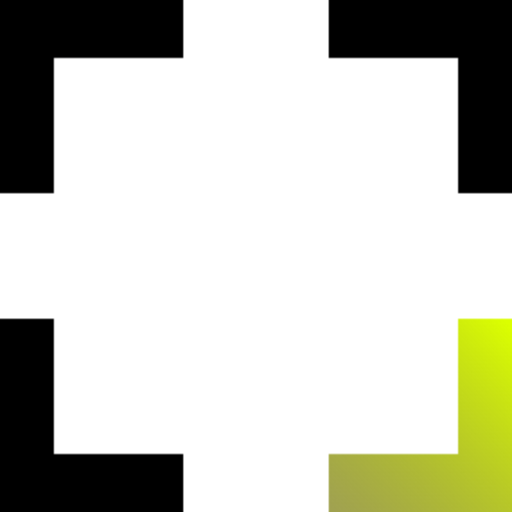
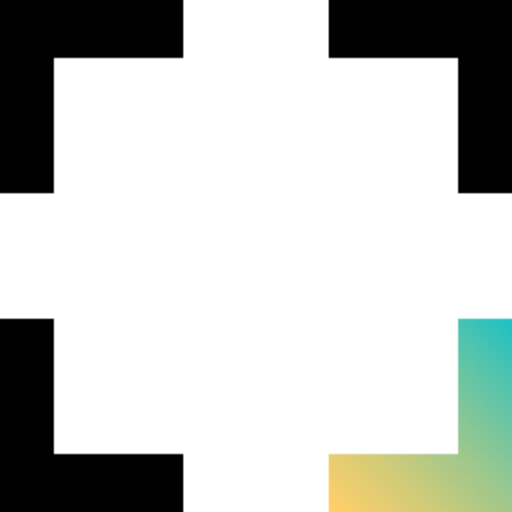
ready for deployment

Changed region(s): [[0.625, 0.5938, 1.0, 1.0]]

diff --git a/src/styles/GlobalStyle.js b/src/styles/GlobalStyle.js
@@ -8,18 +8,15 @@ const GlobalStyles = createGlobalStyle`
     box-sizing: border-box;
     --brand-color: #D4F407;
     --border-color: #000000;
+    --shadow-color: #46585C
   }
   :root{
     --white : #FFFFF;
     --black: black;
   }
   html{
-    --main-font: 'Raleway', sans-serif;
-    --secondary-font: 'Raleway', sans-serif;
-    --stacks-font: monospace;
 
     font-size: 10px;
-    font-family:  var(--main-font);
     color: var(--font-color);
     background-color: var(--background-color);
   }
@@ -35,28 +32,73 @@ const GlobalStyles = createGlobalStyle`
     object-fit: cover;
   }
   button{
-    font-size: 1.7rem;
+    font-family: var(--main-font);
+    font-size: 1.45rem;
+    weight: 1px;
     font-weight: 400;
-    background-color: var(--brand-color);
-    border: 1px solid var(--btn-border-color);
+    margin-left: 1rem;
+    background: rgb(34,193,195);
+    background: linear-gradient(90deg, rgba(34,193,195,1) 0%, rgba(253,187,45,1) 100%);
+    border: 1px solid var(--border-color);
     border-radius: 1px;
     display: inline-block;
-    color: var(--font-color);
+    color: var(--border-color);
     transition: all 0.3s ease-in-out;
     box-shadow: 0 2px 1px rgba(0, 0, 0, 0.4), 0px 0px 50px rgba(0, 0, 0, 0);
     transform-style: preserve-3d;
-    padding: 1rem;
+    padding: 8.5px 35px 8.5px 35px;
     overflow: hidden;
     &:hover {
       color: var(--font-color);
+      font-weight: 900;
       background-color: var(--primary-color);
       transform: scale(1.1);
-      transform: translate(7px, -7px);
+      transform: translate(5px, -5px);
       transform-style: preserve-3d;
       transition: all 0.2s ease-in-out;
-      box-shadow: 5px 10px var(--shadow-color);
+      box-shadow: 4px 6px var(--shadow-color);
     }
   }
+  .btn__form{
+    margin-top: 2rem;
+  }
+  .input__form{
+    display: inline-grid;
+    width: 60rem;
+  }
+  input{
+    margin-top: 2rem;
+    placeholder: 20rem;
+    font-size: 1.7rem;
+    font-weight: 200;
+    border: 1px solid var(--border-color);
+    border-radius: 1px;
+    color: var(--font-color);
+    transition: all 0.3s ease-in-out;
+    transform-style: preserve-3d;
+    padding: 5.5px 35px 5.5px 35px;
+    overflow: hidden;
+    ::placeholder
+    {
+      color: var(--font-color);
+      font-family: var(--main-font);
+      opacity: 1;
+    }
+  }
+
+  .result__form{
+    margin-top: 5rem;
+    h3{
+      font-size: 1.7rem;
+      font-weight: 200;
+      font-family: var(--display-font);
+    }
+    img{
+      margin-top: 2rem;
+      width: 100px;
+    }
+  }
+
   .container {
     max-width: 1200px;
     width: 90%;
@@ -77,5 +119,11 @@ const GlobalStyles = createGlobalStyle`
       }
     }
   }
+
+  @media only screen and (max-width: 768px) {
+    .input__form{
+      display: inline-grid;
+      width: 28rem;
+    }
 `;
 export default GlobalStyles;

diff --git a/src/components/HeroSection.jsx b/src/components/HeroSection.jsx
@@ -1,7 +1,7 @@
 import React from "react";
 import styled from "styled-components";
 
-import HeroImg from "../assets/images/logo_id.svg";
+import HeroImg from "../assets/images/logo.svg";
 import Typical from "../components/Typical";
 // import Button from "./Button";
 // import SocialMediaArrow from "../assets/images/scroll-media-arrow.svg";
@@ -26,12 +26,9 @@ export default function HeroSection() {
           <span>
             <Typical
               as="h3"
-              main_title="Title1"
-              title_1="Title2"
-              title_2="Title3"
-              title_3="Title4"
-              title_4="Title5"
-              title_5="Title6"
+              title_1="Identity Management System"
+              title_2="Sign In with Ethereum"
+              title_3="#DecentralizedIdentity"
             />
           </span>
         </h1>
@@ -81,14 +78,14 @@ const HeroStyles = styled.div`
     // position: relative;
   }
   .hero__heading {
-    margin-top: 5rem;
+    margin-top: 2rem;
     text-align: center;
-    font-size: 7rem;
+    font-size: 5rem;
     font-family: var(--display-font);
   }
   .hero__img {
     margin-top: 5rem;
-    width: 25%;
+    width: 7%;
     margin-left: auto;
     margin-right: auto;
   }
@@ -150,58 +147,20 @@ const HeroStyles = styled.div`
     }
   }
   @media only screen and (max-width: 768px) {
-    padding: 10rem 0;
-    .hero {
-      // min-height: 750px;
-    }
     .hero__heading {
-      font-size: 1.7rem;
-      margin-bottom: -3rem;
-      .hero__name {
-        font-size: 3.5rem;
-      }
+      margin-top: 2rem;
+      text-align: center;
+      font-size: 3.5rem;
+      font-family: var(--display-font);
     }
     .hero__img {
-      height: 300px;
-    }
-    .hero__info {
-      margin-top: 7rem;
-      h3 {
-        font-size: 1.9rem;
-        font-weight: 500;
-      }
+      margin-top: 5rem;
+      width: 20%;
+      margin-left: auto;
+      margin-right: auto;
     }
     .hero__social {
-      left: 0px;
-      bottom: -15%;
-      width: 20px;
-      .hero__social__indicator {
-        width: 20px;
-        p {
-          font-size: 1.2rem;
-        }
-        img {
-          max-height: 22px;
-        }
-      }
-      .hero__social__text {
-        ul {
-          li {
-            a {
-              font-size: 1.8rem;
-              margin-bottom: 1rem;
-            }
-          }
-        }
-      }
-    }
-    .hero__scrollDown {
-      right: 0;
-      width: 20px;
-      gap: 1rem;
-      p {
-        font-size: 1.3rem;
-      }
+      left: 2px;
     }
   }
 `;

diff --git a/src/components/Footer.jsx b/src/components/Footer.jsx
@@ -5,15 +5,24 @@ export default function Footer() {
   return (
     <FooterStyle>
       <div className="container">
+        <p>Powered By</p>
         <div className="footer__col1">
-          <h1 className="footer__col1__title">Second Footer</h1>
-          <br />
-          <button>Documentation</button>
+          <a
+            href="https://developers.idx.xyz/learn/welcome/"
+            target="_blank"
+            rel="noreferrer"
+          >
+            <button>IDX Documentation</button>
+          </a>
         </div>
         <div className="footer__col2">
-          <h1 className="footer__col2__title">Second Footer</h1>
-          <br />
-          <button>Documentation</button>
+          <a
+            href="https://developers.ceramic.network/learn/welcome/"
+            target="_blank"
+            rel="noreferrer"
+          >
+            <button>Ceramic Network Documentation</button>
+          </a>
         </div>
       </div>
     </FooterStyle>
@@ -21,18 +30,18 @@ export default function Footer() {
 }
 
 const FooterStyle = styled.div`
+  font-family: var(--main-font);
   position: fixed;
   left: 0;
   bottom: 0;
   width: 100%;
   color: white;
   text-align: center;
-  background-color: blue;
-  // background-color: var(--brand-color);ß
+  background-color: #181818;
   background-position: center;
   background-size: cover;
-  padding-top: 2rem;
-  padding-bottom: 5rem;
+  padding-top: 2.5rem;
+  padding-bottom: 2.5rem;
   font-size: 1.5rem;
   .container {
     display: flex;
@@ -49,15 +58,14 @@ const FooterStyle = styled.div`
   .footer__col1__title,
   .footer__col2__title {
     font-size: 1.7rem;
-    margin-bottom: 1rem;
+    margin-bottom: 0.5rem;
   }
   @media only screen and (max-width: 768px) {
+    padding-top: 1.5rem;
+    padding-bottom: 2rem;
     .container {
-      flex-direction: column;
-      gap: 0rem;
-      & > div {
-        margin-top: 5rem;
-      }
+      display: flex;
+      gap: 0.5rem;
     }
     .footer__col1 .para {
       max-width: 100%;

diff --git a/src/App.js b/src/App.js
@@ -70,17 +70,22 @@ function App() {
   return (
     <div className="App">
       <HeroSection />
-      <input placeholder="Name" onChange={(e) => setName(e.target.value)} />
-      <input
-        placeholder="Profile Image"
-        onChange={(e) => setImage(e.target.value)}
-      />
-      <button onClick={updateProfile}>Set Profile</button>
-      <button onClick={readProfile}>Read Profile</button>
-
-      {name && <h3>{name}</h3>}
-      {image && <img style={{ width: "400px" }} src={image} alt="avatar" />}
-      {!image && !name && loaded && <h4>No profile, please create one...</h4>}
+      <div className="input__form">
+        <input placeholder="Name" onChange={(e) => setName(e.target.value)} />
+        <input
+          placeholder="Profile Image (Image URL)"
+          onChange={(e) => setImage(e.target.value)}
+        />
+      </div>
+      <div className="btn__form">
+        <button onClick={updateProfile}>Set Profile</button>
+        <button onClick={readProfile}>Read Profile</button>
+      </div>
+      <div className="result__form">
+        {name && <h3>{name}</h3>}
+        {image && <img src={image} alt="avatar" />}
+        {!image && !name && loaded && <h4>No profile, please create one...</h4>}
+      </div>
       <Footer />
     </div>
   );

diff --git a/src/components/Typical.jsx b/src/components/Typical.jsx
@@ -3,14 +3,11 @@ import Typical from "react-typical";
 import styled from "styled-components";
 
 export default function BannerText({
-  main_title,
   title_1,
   title_2,
   title_3,
   title_4,
   title_5,
-  title_6,
-  span,
 }) {
   return (
     <TypicalStyles>
@@ -35,8 +32,8 @@ export default function BannerText({
 }
 
 const TypicalStyles = styled.div`
-  display: inline-block;
   width: 100%;
-  font-size: 3.5rem;
-  font-family: var(--display-font);
+  font-size: 2.5rem;
+  font-family: var(--main-font);
+  font-weight: 200;
 `;

diff --git a/src/App.css b/src/App.css
@@ -1,6 +1,6 @@
 * {
   /* font-family: "Luckiest Guy", cursive; */
-  font-family: "Heebo", sans-serif;
+  /* font-family: "Heebo", sans-serif; */
 }
 .App {
   text-align: center;

diff --git a/src/styles/Typography.js b/src/styles/Typography.js
@@ -12,6 +12,7 @@ const Typography = createGlobalStyle`
     color: var(--font-color);
   }
   *{
+    // font-family: var(--main-font);
     color: var(--font-color);
   }
 `;
